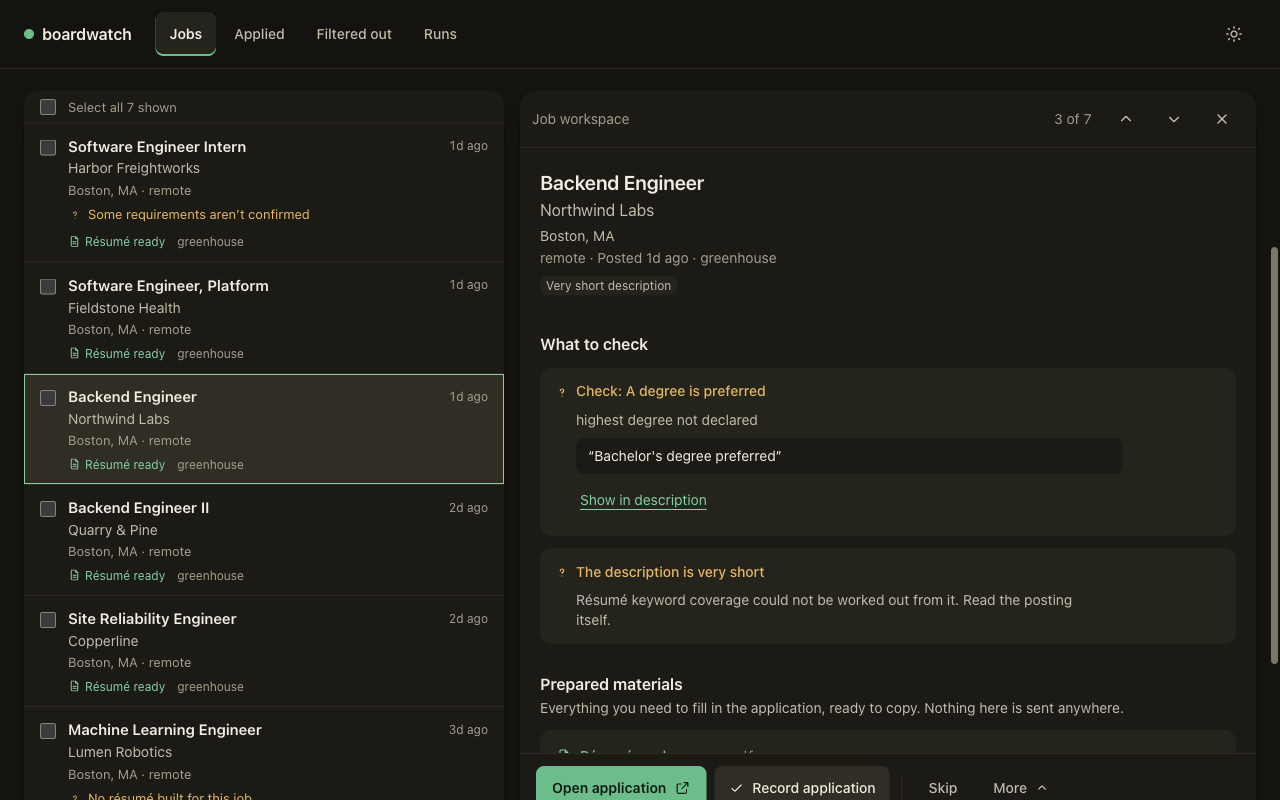
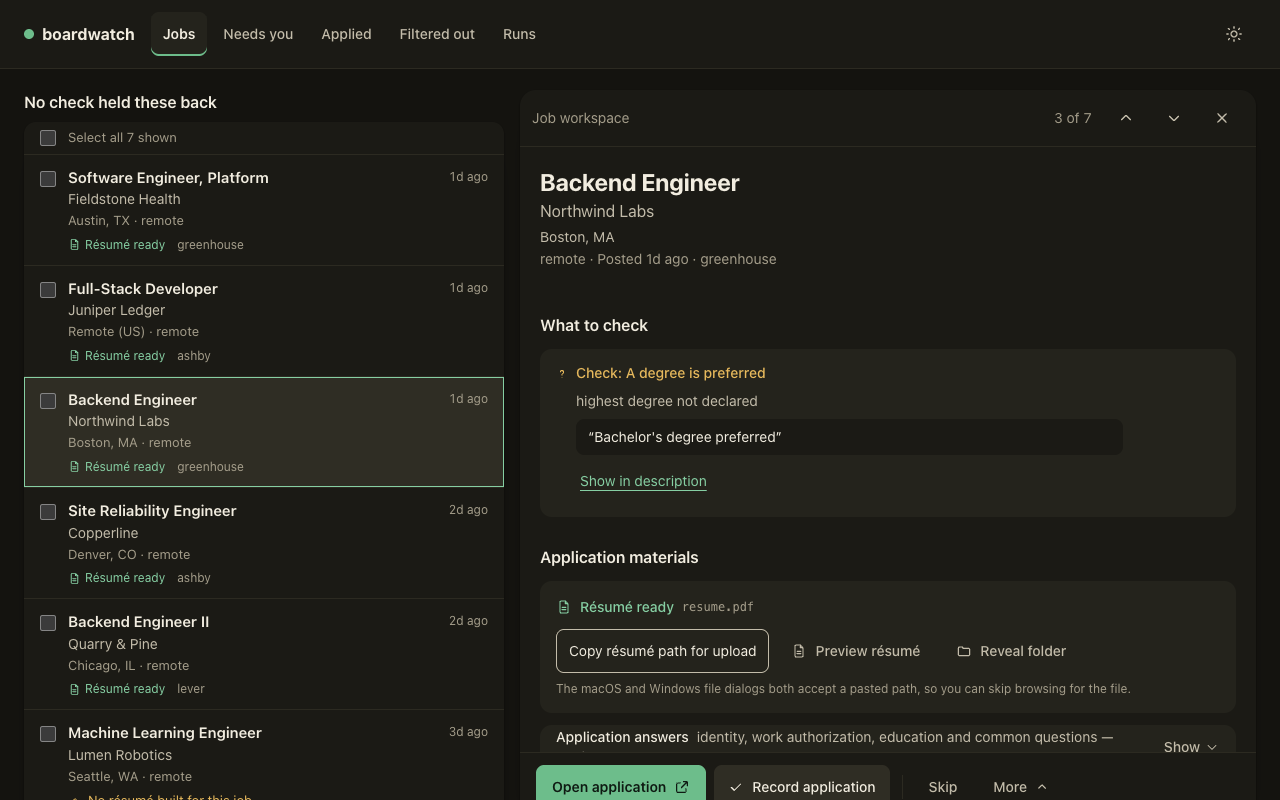
Ticket today's follow-ups and retake the README screenshot (#716)
* Ticket the 2026-11-23 follow-ups: registry notifier, JSON-LD shapes, guard drain, undo dates (T330-T337)

* Retake the README screenshot with the five-tab viewer and reword the acceptance roadmap line

---------

diff --git a/docs/program/TICKETS-2026-09-22c.md b/docs/program/TICKETS-2026-09-22c.md
@@ -1418,3 +1418,145 @@ the failed snapshot's `error`, the #691 pattern. Nothing parses the message toda
 failed; posting <id> detail: <text>`, which is Apple's per-posting text. The first failure only, so a 500-posting board
 does not write a 500-part error. No count by status: the status is typed only on the fetch site, the unreadable-body site
 has none, and Eightfold's throttle count already rides on the failed snapshot. Reopen if a mixed-status board needs it.
+
+## Added 2026-11-23
+
+T325 and T326–T329 are numbered elsewhere. T278 (the viewer URL after a port hand-off) is already ticketed above and is not
+repeated. The T293–T313 review follow-ups were re-checked against the code on 2026-11-23; these are already fixed and need
+no ticket: a manual reopen erasing a real closure from lead aging (`store/owner_close.py` records an undo only when an owner
+closure is held), a failed-compile `typst_pdf_built: false` counted as a build (`build_economics_queries._rendered`), the
+withdrawals label naming a different posting than the Applied row and the no-withdrawals full read
+(`withdrawal_queries.py`), a malformed `rules.yaml` escaping a GET handler (`delivery/server.py` answers 503), the Needs-you
+copy (now "No lead or companion is waiting on you."), the company-hiring memo key and the JD-change build order (T320).
+
+### T330 — the registry-health workflow has no failure notifier, and its log does not name the failing entry
+`.github/workflows/registry-health.yml` is one `health` job (lines 7–16) with no step that tells anyone. Two Monday runs
+failed and neither opened an issue: 2026-11-09 (run 42661128737) and 2026-11-16 (run 43910393738). Each ran about a minute
+and its step log ends with only `##[error]Process completed with exit code 1.`: `registry/health_report.py:54–60` writes the
+per-entry table to `GITHUB_STEP_SUMMARY` when that is set and prints it only when it is not, so no entry name is in the log.
+`registry/README.md:66–68` says drift "is visible in the Actions log"; it is visible only on the run's summary tab. Both
+failures were real drift (`lever:mistral` and `ashby:browserbase` answered 404 after the employers moved ATS), fixed in #706
+on 2026-11-23, two weeks after the first; a notifier would have raised it on 11-09.
+`ci.yml`'s `nightly-watch` job (lines 496–566, marker `<!-- nightly-ci-watch -->`) cannot be reused with one line: it
+hard-codes `needs: [ci]`, that marker, its issue title and a body about macOS and Windows jobs. A copy needs its own marker
+(`<!-- registry-health-watch -->`; a shared one would let a green nightly close the registry issue), `permissions: contents:
+read, issues: write` and `needs: [health]`.
+**Fix:** (a) a `registry-watch` job in `registry-health.yml`, `if: always()` (not schedule-only, so `gh workflow run` can
+exercise it), that opens or comments on one issue when `health` fails and closes it with a comment when it passes; (b)
+`health_report.main` also prints the non-OK rows (name, provider, status) to stdout, so the log names them and (c) the README
+sentence becomes true. Extracting `nightly-watch` into a reusable workflow taking marker, title and the `needs` result is
+the alternative to a 40-line copy; it touches `ci.yml` too, so the copy is the smaller first step. Prove it ran: dispatch once
+from a branch carrying a deliberately dead slug and confirm the issue opens, then dispatch on `main` and confirm it closes.
+Size: small, one workflow job, five lines in `health_report.py`, one test for the printed rows.
+
+### T331 — the JSON-LD lane admits Breezy `/p/{id}/apply` URLs, and that page carries no JSON-LD
+`lanes/jsonld.py:342–346` admits `{tenant}.breezy.hr/p/{id}[-{title-slug}][/apply]`, and the comment at 339–340 justifies the
+`/apply` suffix by the one active Breezy record in the lists carrying it. The fixture `BREEZY_APPLY_URL`
+(`tests/unit/jsonld_shape.py:250`, asserted at `test_jsonld_lane.py:298`) pins only the identity read from the URL; no test
+fetches an `/apply` page. Measured live 2026-11-23 and recorded in that day's shape review (`jsonld_shape.py:40–51`, which
+rolled `REVIEW_BY` and changed no code): 2 of 2 `/apply` pages have no `JobPosting` block (`NoJobPosting`, line 415, charged
+as an attempt), and the base `/p/{id}` page does. Three such seeds in the store were tried three times each and never
+resolved: `SEED_MAX_ATTEMPTS = 3` (line 268) retires a seed for good after three GETs (lines 103–105), so each cost three
+requests for nothing and none will be asked again. A code fix alone will not re-enter them.
+**Fix, either:** (a) canonicalize at admission: `seed_identity` (line 496) builds the fetched URL as `https://{host}/p/{id}`
+for the Breezy shape, so the page that carries the data is the one requested and the posting is recovered (the id is
+positional, so the reasoning at 334–340 still holds; the vendor's own `url` property is the base page plus
+`?source=GoogleJobs`, `jsonld_shape.py:258`); or (b) refuse the shape (`UnsupportedSeedURL`, charged), dropping the suffix
+from the pattern and the fixture, which stops the waste and recovers nothing. Either way the three exhausted rows need a
+re-entry (reset `attempts` on `.breezy.hr` seeds whose path ends `/apply`: a one-off write on the live store, the owner's
+call), because a bucket needs a drain. Test: a `respx` page served only at the base URL; the `/apply` seed must resolve to a
+posting under (a), or be refused with no request under (b). Size: small.
+
+### T332 — the Hireology fixture, docstring and test still describe an integer `identifier.value`; live pages send a UUID
+`lanes/jsonld.py:198–201`, `tests/unit/jsonld_shape.py:9–10` and `:178–179` (the `HIREOLOGY_POSTING` fixture) and
+`test_jsonld_lane.py:261–272` (two literals) record the 2026-09-01 reading: `identifier.value` is an integer, one less than
+the id in the URL (2855935 against 2855936). The 2026-11-23 shape review re-read it live: 3 of 3 pages carry a UUID string
+there, and the review's own comment (`jsonld_shape.py:40–51`) says the trap is no longer observed. It rolled `REVIEW_BY` to
+2027-02-21 and left the fixture, the docstrings and the test as they were. The lane takes the id from the URL (`Vendor.path`,
+`jsonld.py:314`, `(?P<id>\d+)`) and never reads `identifier`, so nothing is broken. What has drifted is the trap the fixture
+exists to reproduce: a value that disagrees with the URL id and would collide on `UNIQUE(company_id, provider_posting_id)`.
+`test_the_posting_id_comes_from_the_url_never_from_identifier` now guards a shape no live page sends.
+**Fix:** a three-literal edit that needs no new capture. Set the fixture's `identifier.value` to a UUID-shaped string, rewrite
+the three docstrings and the test's two literals to say the identifier is a UUID and still not the posting id. Keep one
+integer-valued case if the vendor can return it again, since a closed shape that stops being observed is not a shape that
+cannot return. At the next review (2027-02-21) re-confirm that the URL id is still all digits; a non-numeric one is a parser
+fix, not a recapture. Size: trivial.
+
+### T333 — the Lever starter set has 2 entries since Mistral AI moved to Ashby; criterion 3 asks for 3
+`registry/README.md:35–36` (criterion 3, provider diversity) requires at least 3 starter entries per provider in the starter
+set. #706 (2026-11-23) moved Mistral AI from Lever to Ashby (`companies.yaml:155–158`, still tagged `starter`), which leaves
+Lever with Palantir and Spotify (`companies.yaml:94–101`). Shield AI (line 102) and Ro (line 106) are the Lever entries not
+tagged `starter`. Nothing checks the criterion (`tests/unit/test_registry.py` covers loading and extraction only), so the gap
+is prose: the README and the catalog disagree, and a first-run user's starter path reaches Lever through two boards.
+**Needs the owner's call:** (a) promote Ro: criterion 1 then needs two attended live checks at least 7 days apart (the dates go
+in the PR body) and criterion 4 the owner's sign-off on recognizability; (b) relax criterion 3 to what the catalog can meet
+(2 per provider) and say why in the README. Shield AI is the alternative to Ro under (a). The starter count (`15 of the 37`,
+`registry/README.md:27`, and the header comment of `companies.yaml`) is right today and becomes 16 under (a). Size: trivial once
+decided; (a) waits 7 days for its second check.
+
+### T334 — empty-complete guard drain: a guarded board that never relists keeps its postings open for good (RULED, building)
+**Owner ruling 2026-11-23: build option 2.** Measured on run 2887 (2026-11-23): `empty-complete guarded` boards grew from 35
+(Nov 2) to 73, about +3.2 entering and −1.4 leaving per night. The guard is `scan/apply.py:_empty_complete_is_evidence_of_nothing`
+(line 595, applied at 123): a `complete` snapshot with no postings and no `listed_ids`, for a company that holds open
+postings, counts no miss, persists no validators and leaves the postings `open`. All 73 boards are `watched = 1`, so the
+death probe (`unreachable_by_the_scanner`, `pipeline/death_probe.py:312`, unwatched companies only) never asks about their
+1,178 open postings (0.16% of open), and `follow_board_moves` (D-669) cannot see them: it needs three typed `dead` scans
+(`board_moves.dead_for_three_scans`), and Lever, Greenhouse and Ashby answer a departed tenant with HTTP 200 and an empty
+list (7 of 7 live GETs, no provider fault in the sample). A board that lists again already drains the next night (22 left
+the list in three weeks; closures followed). One that never lists again keeps its postings open: the oldest is 64 days.
+The largest case is `lever:shieldai`, empty since Nov 13 after the employer moved to two Ashby boards the lane found: 665
+stale Lever rows duplicate 666 live Ashby rows (604 of 659 normalized titles match). By the store alone, 3 boards (697 of the
+stale rows) moved ATS, 4 are seasonal or cache siblings of a healthy board, and about 66 are unexplained (mostly employers
+that filled their last role). Not a delivery bug today, since the liveness probe withholds a dead lead; it is the "bucket with
+no drain" the keystone warns about, sized small.
+**Built as ruled (option 2):** after a board has been guarded for about 14 nights, hand its open postings to the death probe
+as a second population beside `unreachable_by_the_scanner`. Each posting closes only on its own proof (URL probe, strikes);
+the board stays watched, and a relist still reopens. Needs (1) a typed, nullable `empty_guarded` column on `board_scans`
+(an additive migration, as D-669's `dead` and `pipeline_scan` were), set where the guard fires, with consecutive guarded
+pipeline scans counted from it: `postings_listed = 0` cannot stand in for it, because it matches 1,224 boards fleet-wide
+against the 73 real ones (Workday, SmartRecruiters and Oracle HCM write `listed = 0` whenever every id is already known);
+(2) a probe-budget share for this population; (3) the ruling that the probe may close rows under a watched company, which
+is given. Known gap: Ashby rows cannot close this way (an empty listing is `listing_unknown` and a dead Ashby URL answers
+200), so 27 Ashby boards and 92 rows stay. Shield AI is covered (Lever, URL path).
+**Rejected, with the reason:** feeding guarded boards into `follow_board_moves` (1 of 73 qualifies, and it widens D-669 from a
+proven-dead board to an alive, empty one); closing after K empty nights inside the guard (7 of 42 measured relists came
+back after 15 days or more, longest 49, and a reopened `built` posting can re-deliver, D-600); accepting the residual and only
+showing its age.
+**Acceptance:** after the build the nightly guarded count stops growing without a matching close count; a planted board that
+relists after 20 nights reopens its rows with no `built` re-delivery; a planted guarded Lever board with a dead posting URL
+closes that posting and no other. Measure the probe cost on the live store's copy before arming it.
+
+### T335 — an application undone and then re-applied keeps the undone mark's `submitted_at`
+`set_application_status` stamps `submitted_at` once (`store/applications.py:247–249`, only `if submitted_at is None`), and the
+Applied page's undo writes `withdrawn` and leaves it (`mark_job_unapplied`, 382–384). A later "Record application" on the same
+job finds the latest attempt `withdrawn`, outside `APPLIED_STATUSES`, and moves that same attempt back to `applied`
+(`mark_job_applied`, 342–347), so the date stays the first mark's. Reproduced on an in-memory store: applied 11-02, withdrawn
+five minutes later, applied again 11-12: `submitted_at` reads 11-02, and `lead_aging_queries._first_applied` (185–196) returns
+11-02. The same read feeds `posting_lifetime_queries._applied_waits` (226–244), `jd_change_queries._applied` (184–191: the
+"sent" date and the diff's "before" version), and the Applied page's own date and ordering (`delivery_queries.py:1814`,
+`api.py:1220`). Lead-aging and time-to-apply waits come out short by however long the mark sat undone, and a JD change
+between the two marks reads as after applying. `withdrawal_queries.py:54–91` already reads the entering event instead.
+**Fix:** restamp `submitted_at` when an attempt moves into an applied status from outside the set, in
+`set_application_status`, and correct the "stamped once" docstring at 382–384; it stays non-null, which is all
+`count_tracked_submitted` reads. A test applies, undoes and re-applies with dates fixed by the test. Rows already written
+this way can be recovered from `application_events` (the latest entering event): count them on the live store before deciding
+on a backfill. Size: small.
+
+### T336 — T307's time to apply counts an application that was undone
+`posting_lifetime_queries._applied_waits` (lines 218–244) reads every application with `submitted_at` set and no status
+filter, so a mark undone on the Applied page (status `withdrawn`, `submitted_at` kept) still reads as an application and adds
+a wait. Reproduced on an in-memory store: marked applied on day 2, withdrawn five minutes later, `_applied_waits` returns one
+2.0-day wait. Lead aging and source yield already filter on `APPLIED_STATUSES` (`lead_aging_queries.py:186–189`); this reader
+was not changed with them. **Fix:** the same filter, and a test where an undone mark yields no wait and no change to
+`excluded`. Independent of T335, which changes the date a re-applied attempt carries. Size: trivial.
+
+### T337 — a numeric path id above 2^63 resets the connection instead of answering 404
+The id routes match `(\d+)` with no upper bound (`delivery/server.py:210, 223, 232, 239, 240, 241`) and bind `int(...)` into
+SQLite. `99999999999999999999` raises `OverflowError: Python int too large to convert to SQLite INTEGER`, which `_dispatch`
+does not catch, so the server closes the connection without an HTTP response. Measured on a scratch viewer 2026-11-23:
+`GET /api/postings/<20 digits>/diff?from=1&to=2`, `/api/pdf/<20 digits>` and `/api/queue/<20 digits>` return no reply
+(curl exit 52) with the traceback in the server log; `/api/runs/<20 digits>` answers 404. The viewer is loopback and
+token-only, so this is robustness and not exposure. The `from` and `to` query ids are already capped at 18 digits
+(`server.py:673`); the path ids are not. Raised as a follow-up in T316's review for the diff route; the other id routes
+have the same shape. **Fix:** cap the path groups at `\d{1,18}`, so a longer id falls through to the not-found answer, or
+catch `OverflowError` once in `_dispatch`; one test per route family. Size: trivial.

diff --git a/README.md b/README.md
@@ -294,7 +294,8 @@ Next:
 
 - [ ] An onboarding flow that fits fields other than software, so the eligibility taxonomy is
       gathered from you rather than assumed
-- [ ] A measured acceptance run — the daily numbers published rather than asserted (in progress)
+- [ ] Meeting the written daily acceptance bars: every scheduled run is scored against them as a
+      health check, and a failing bar is a defect to fix
 - [ ] Broader company coverage, but only after the above shows the funnel converts; breadth
       multiplies whatever is downstream of it, including the mistakes
 
